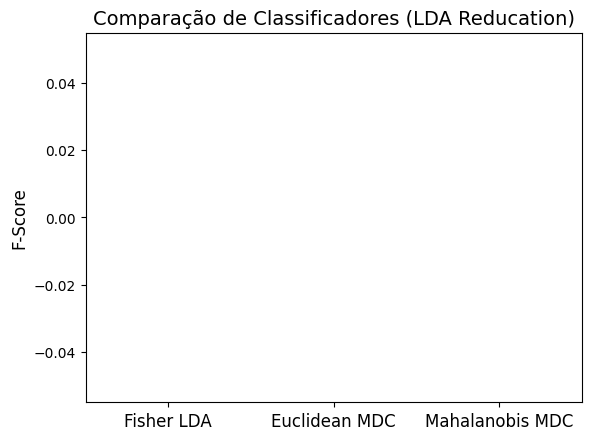
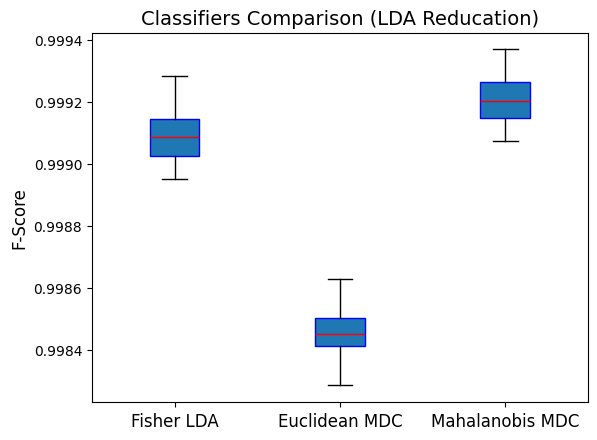
feat: utils function to get reduction and classifier labels

diff --git a/automaticTestings.py b/automaticTestings.py
@@ -8,20 +8,19 @@ def trainConfidenceInterval(optionsFeatureSelection, optionsFeatureReduction, op
     "eucludeanMinimumDistanceClassifier": 12,
     "mahalanobisMinimumDistanceClassifier": 50
   }
-  #for i in range(30):
   resultsDict = {
     classifier.__name__: { 
-      reduction.__name__: [] for key, reduction in list(optionsFeatureReduction.items())[:-1] 
+      reduction.__name__: [] for key, reduction in list(optionsFeatureReduction.items()) 
     } for key, classifier in optionsFeatureClassifier.items()
   }
   columnNames = []
 
   for keyClassifier, classifier in optionsFeatureClassifier.items():
     classifierDimensionality = dimensionalityPerClassifier[classifier.__name__]
-    for k, selection in list(optionsFeatureSelection.items())[:-1]:
+    for k, selection in list(optionsFeatureSelection.items()):
       dfDataSelected = featureSelectionReduction.featureSelectionKsTest(dfData, dfLabels, classifierDimensionality)
     
-      for keyReduction, reduction in list(optionsFeatureReduction.items())[:-2]:
+      for keyReduction, reduction in list(optionsFeatureReduction.items()):
         dfDataReducted = reduction(dfDataSelected, dfLabels)
         
         for seed in range(30):
@@ -52,6 +51,9 @@ def plot_boxplots(resultsDict, columnNames):
     fScoreValues = []
     for classifier in resultsDict.keys():
       dfResults = utils.pd.DataFrame(resultsDict[classifier][reduction], columns=columnNames)
+      output_path = utils.os.path.join(outputDir, f"{utils.getReductionLabel(reduction)}_{utils.getClassifierLabel(classifier)}.csv")
+      dfResults.to_csv(output_path, index=False)
+
       classifierFScoreValues = dfResults["fScore"]
       fScoreValues.append(classifierFScoreValues)
 
@@ -59,42 +61,19 @@ def plot_boxplots(resultsDict, columnNames):
     utils.plt.boxplot(fScoreValues, patch_artist=True, boxprops=dict(color="blue"), medianprops=dict(color="red"))
     utils.plt.xticks(range(1, len(classifiersLabels) + 1), classifiersLabels, fontsize=12)
     utils.plt.ylabel('F-Score', fontsize=12)
-    utils.plt.title(f'Comparação de Classificadores ({utils.getReductionLabel(reduction)})', fontsize=14)
+    utils.plt.title(f'Classifiers Comparison ({utils.getReductionLabel(reduction)})', fontsize=14)
 
     output_path = utils.os.path.join(outputDir, f"{utils.getReductionLabel(reduction)}.png")
     utils.plt.savefig(output_path, bbox_inches="tight")
     utils.plt.close()
-      
-  #for i in range(30):
-  # for dimensionality in dimensionalities:
-  # for k, selection in optionsFeatureSelection.items():
-  #   if selection != None:
-  #     dfDataSelected = featureSelectionReduction.featureSelectionKsTest(dfData, dfLabels, dimensionality)
-    
-  #   for keyReduction, reduction in optionsFeatureReductionSelection.items():
-  #     if reduction != None:
-  #       dfDataSelected = reduction(dfDataSelected, dfLabels)
-        
-  #     for keyClassifier, classifier in optionsFeatureClassifier.items():
-  #       dfTrain, dfTest, dfTargetTrain, dfTargetTest = utils.train_test_split(dfDataSelected, dfLabels, test_size=0.3, random_state=42, stratify=dfLabels)
-  #       dfPredictions, dfTargetTest = classifier(dfTrain, dfTest, dfTargetTrain, dfTargetTest)
-  #       evaluation.main(
-  #         dimensionalityPerClassifier[classifier.na],
-  #         selection.__name__,
-  #         dfDataSelected.shape[1],
-  #         reduction.__name__,
-  #         classifier.__name__,
-  #         dfTargetTest,
-  #         dfPredictions
-  #       )
 
 def generateDimensionalityCurve(optionsFeatureSelection, optionsFeatureReductionSelection, optionsFeatureClassifier, dfData, dfLabels):
-  dimensionalities = list(range(2, dfData.shape[1]+1))
+  dimensionalities = list(range(1, dfData.shape[1]+1))
   resultsDict = {classifier.__name__: [] for key, classifier in optionsFeatureClassifier.items()}
   columnNames = []
   
   for dimensionality in dimensionalities:
-    for keySelection, selection in list(optionsFeatureSelection.items())[:-1]:
+    for keySelection, selection in list(optionsFeatureSelection.items()):
       dfDataSelected = featureSelectionReduction.featureSelectionKsTest(dfData, dfLabels, dimensionality)
 
       for keyClassifier, classifier in optionsFeatureClassifier.items():
@@ -122,7 +101,7 @@ def plotCurveDimensionalities(resultsDict, columnsName):
 	print(resultsDict)
 	for classifier, dfResults in resultsDict.items():
 		dfResults = utils.pd.DataFrame(dfResults, columns=columnsName)
-		output_path = utils.os.path.join(outputDir, f"{classifier}.csv")
+		output_path = utils.os.path.join(outputDir, f"{utils.getClassifierLabel(classifier)}.csv")
 		dfResults.to_csv(output_path, index=False)
 
 		x = dfResults["numberFeaturesSelection"]
@@ -134,6 +113,6 @@ def plotCurveDimensionalities(resultsDict, columnsName):
 		utils.plt.ylabel("Performance (F-Score)")
 		utils.plt.title(f"Critical Feature Dimension (CFD)")
 
-		output_path = utils.os.path.join(outputDir, f"{classifier}.png")
+		output_path = utils.os.path.join(outputDir, f"{utils.getClassifierLabel(classifier)}.png")
 		utils.plt.savefig(output_path, bbox_inches="tight")
 		utils.plt.close()

diff --git a/main.py b/main.py
@@ -33,16 +33,16 @@ def main():
 
     if optionTrain == 1:
         automaticTestings.generateDimensionalityCurve(
-            optionsFeatureSelection,
-            optionsFeatureReduction, 
+            dict(list(optionsFeatureSelection.items())[:-1]), 
+            dict(list(optionsFeatureReduction.items())[:-1]), 
             optionsFeatureClassifier, 
             dfData, 
             dfLabels
         )
     elif optionTrain == 2:
         automaticTestings.trainConfidenceInterval(
-            optionsFeatureSelection,
-            optionsFeatureReduction, 
+            dict(list(optionsFeatureSelection.items())[:-1]),
+            dict(list(optionsFeatureReduction.items())[:-1]), 
             optionsFeatureClassifier, 
             dfData, 
             dfLabels

diff --git a/utils.py b/utils.py
@@ -53,7 +53,7 @@ def showMenu():
         print("[2] - LDA")
         print("[3] - None")
         featureReductionOption = int(input("Option -> "))
-        if (featureReductionOption != 3):
+        if (featureReductionOption == 1):
             print("Please choose number of features for reduction: ")
             numberFeaturesReduction = int(input("Number of features ->" ))
 
